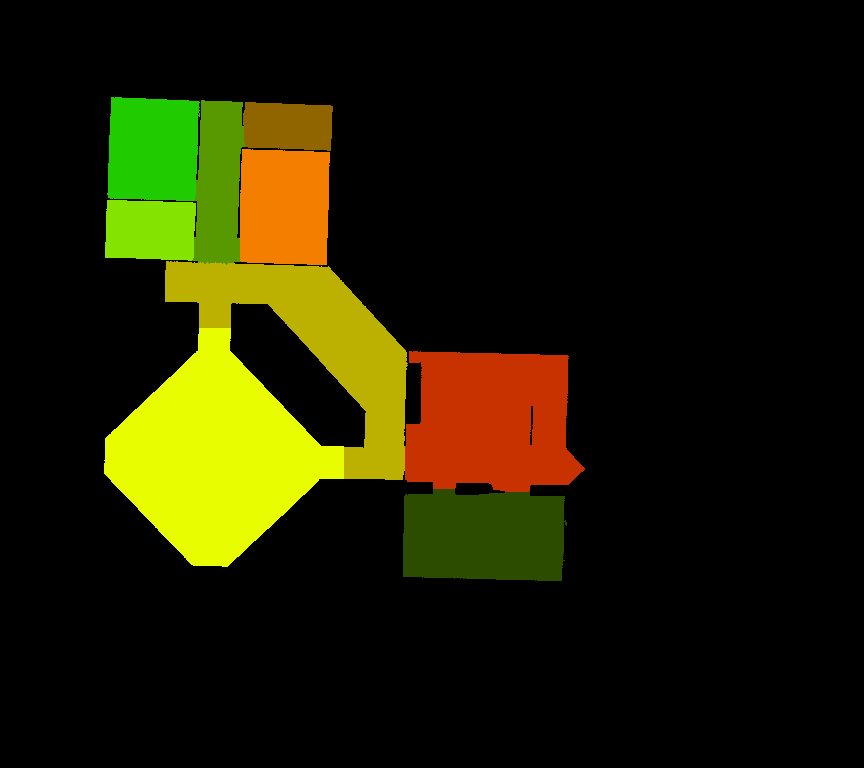
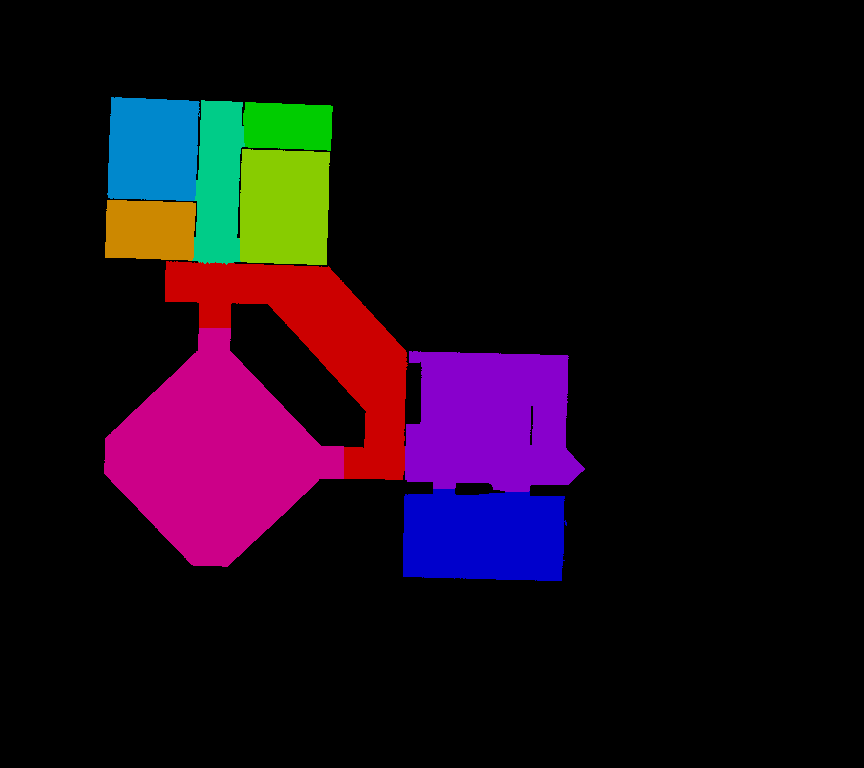
update 160308

Changed region(s): [[0.0938, 0.125, 0.6875, 0.7812]]

diff --git a/map_analyzer/src/map_publisher.py b/map_analyzer/src/map_publisher.py
@@ -65,6 +65,7 @@ import rospy
 import roslib
 import cv2
 import sys
+import colorsys
 import numpy as np
 from sensor_msgs.msg import Image
 #from sensor_msgs.msg._Image import Image
@@ -163,21 +164,129 @@ class MapPublisher(object):
                 if colorvalue not in listOfDifColors:
                     listOfDifColors.append(colorvalue)
         print listOfDifColors
-        print "colorade labes:"
-        listOfColLab = []
-        for lab in listOfDifColors:
-            labcol = []
-            labcol.append(lab)
-            if lab == 65280:
-                col = [255,255,255]
-            elif lab == 0:
-                col = [0,0,0]
-            else:
+        
+        listOfColWithoutError = []
+        for colors in listOfDifColors:
+            if colors < 65500:
+                listOfColWithoutError.append(colors)
+#         cv_enc_img[np.where(cv_img==0)] = [0,0,0]
+#         listOfDifColors.remove(0)
+#         if 65501 in listOfDifColors:
+#             cv_enc_img[np.where(cv_img==65501)] = [0,0,0]
+#             listOfDifColors.remove(65501)
+#         if 65502 in listOfDifColors:
+#             cv_enc_img[np.where(cv_img==65502)] = [0,0,0]
+#             listOfDifColors.remove(65502)
+#         if 65503 in listOfDifColors:
+#             cv_enc_img[np.where(cv_img==65503)] = [0,0,0]
+#             listOfDifColors.remove(65503)
+#         if 65280 in listOfDifColors:
+#             cv_enc_img[np.where(cv_img==65280)] = [0,0,0]
+#             listOfDifColors.remove(65280)
+        if len(listOfDifColors) == 2:
+            #cv_enc_img[np.where(cv_img==0)] = [0,0,0]
+            cv_enc_img[np.where(cv_img==255)] = [255,255,255]
+            cv_enc_img_msg = self.bridge.cv2_to_imgmsg(cv_enc_img, "bgr8")
+            return cv_enc_img_msg
+
+        elif max(listOfColWithoutError) < 1500:
+            print listOfDifColors
+            print "erkannt zahl zwischen 0 - 1500"
+            highestcol = max(listOfColWithoutError)
+            print "highestcol = %d" % highestcol
+            colordivisor = 1.0 / float(highestcol) 
+            print colordivisor
+            listOfColLab = []
+            for lab in listOfDifColors:
+                labcol = []
+                labcol.append(lab)
+                if lab == 0:
+                    col = [0,0,0]
+                elif lab == 65501:
+                    col = [0,0,0]
+                elif lab == 65502:
+                    col = [0,0,0]
+                elif lab == 65503:
+                    col = [0,0,0]
+                else:
+                    col_h = float(lab) * colordivisor
+                    col_s = 1
+                    col_v = 0.8
+                    print "lab = %f to color = %f, %f, %f" % (lab, col_h, col_s, col_v)
+                    color_in_dec = colorsys.hsv_to_rgb(col_h, col_s, col_v)
+                    print "as dec = %f , %f , %f " % (color_in_dec[0], color_in_dec[1], color_in_dec[2])
+                    col = [int(round(color_in_dec[0] * 255)),int(round(color_in_dec[1] * 255)),int(round(color_in_dec[2] * 255))]
+                    print "which is rgb"
+                    print col
+                labcol.append(col)
+                listOfColLab.append(labcol)
+        else:
+            print "erkannt zahl groesser 1500"
+            highestcol = (max(listOfColWithoutError) / 1000)
+            print "highestcol = %d" % highestcol
+            colordivisor = 1.0 / float(highestcol) 
+            print colordivisor
+
+            listOfColLab = []
+            for lab in listOfDifColors:
+                labcol = []
+                labcol.append(lab)
+                if lab == 0:
+                    col = [0,0,0]
+                elif lab == 65501:
+                    col = [0,0,0]
+                elif lab == 65502:
+                    col = [0,0,0]
+                elif lab == 65503:
+                    col = [0,0,0]
+                else:
+                    col_h = (float(lab) / 1000) * colordivisor
+                    col_v = float(lab) / 10000
+                    col_s = float(lab) / 10000
+                    print "lab = %f to color = %f, %f, %f" % (lab, col_h, col_s, col_v)
+                    color_in_dec = colorsys.hsv_to_rgb(col_h, col_s, col_v)
+                    print "as dec = %f , %f , %f " % (color_in_dec[0], color_in_dec[1], color_in_dec[2])
+                    col = [int(round(color_in_dec[0] * 255)),int(round(color_in_dec[1] * 255)),int(round(color_in_dec[2] * 255))]
+                    print "which is rgb"
+                    print col
+                labcol.append(col)
+                listOfColLab.append(labcol)
+#         listOfRooms = []
+#         for roomcol in listOfDifColors:
+#             val = (roomcol // 1000)
+#             if (val < 65):
+#                 listOfRooms.append(val)
+#         highestCol = max(listOfRooms)
+#         divis = highestCol // 360
+        
+        
+#         print "colorade labes:"
+#         listOfColLab = []
+#         for lab in listOfDifColors:
+#             labcol = []
+#             labcol.append(lab)
+#             if lab == 65280:
+#                 col = [255,255,255]
+#             elif lab == 0:
+#                 col = [0,0,0]
+#             else:
 #                 col = self.colorlist.pop()
-                col = self.listOfRoomCol.pop()
-            labcol.append(col)
-            listOfColLab.append(labcol)
-        print listOfColLab
+# #                 col = self.listOfRoomCol.pop()
+# #                 col_value = listOfDifColors.pop()
+# #                 print "das label ist"
+# #                 print col_value
+# #                 col_h = ((col_value // 1000) * divis)
+# #                 col_s = ((col_value % 1000) / 100)
+# #                 col_v = 1
+# #                 print "errechnete hsv:"
+# #                 print "%d , %d , %d " % (col_h, col_s, col_v)
+# #                 col = colorsys.hsv_to_rgb(col_h, col_s, col_v)
+# #                 print "errechnete RGB Farbe ist:"
+# #                 print col
+#                 
+#             labcol.append(col)
+#             listOfColLab.append(labcol)
+#         print listOfColLab
         
         pix_col = [255,255,255]
         for w in range (0, cv_img.shape[1], 1):
@@ -197,6 +306,10 @@ class MapPublisher(object):
         
         return cv_enc_img_msg
 
+    def createHSVcolor(self, label):
+        h_div = label // 1000
+        
+        
     def saveLogImage(self, img):
         self.counter += 1
         path_to_logimage = self.path_to_logfile+"logimg"+str(self.counter)+".png"
@@ -211,6 +324,7 @@ class MapPublisher(object):
             e = sys.exc_info()[0]
             print e
 
+        
     def produceRoomAndSquareColors(self, number_of_rooms):
         listOfRoomColors = []
         listOfRoomColorsAsInt = []

diff --git a/map_analyzer/src/map_analyzer_server.py b/map_analyzer/src/map_analyzer_server.py
@@ -126,6 +126,14 @@ class MapAnalyzerServer(object):
         
         rospy.loginfo("... finished")
     
+    def debugmakeListOfColors(self, map_img):
+        listOfColors = []
+        for w in range (0, map_img.shape[1], 1):
+            for h in range (0, map_img.shape[0], 1):
+                if not map_img[h,w] in listOfColors:
+                    listOfColors.append(map_img[h,w])
+        return listOfColors
+    
     def deleteErrorsInMap(self, img):
         for w in range (0, img.shape[1], 1):
             for h in range (0, img.shape[0], 1):
@@ -184,9 +192,14 @@ class MapAnalyzerServer(object):
 #         answer3 = self.serviceMapTesselationClient(input_map.map)
         print answer3.tesselated_rooms.encoding
         
-#         print "transposeSquaresToRooms:"
-#         squaresAndRoomsMap = self.transposeSquaresToRooms(segmented_map_response.segmented_map, answer3.tesselated_rooms)
-#         print "ready transposing"
+        print "transposeSquaresToRooms:"
+        squaresAndRoomsMap = self.transposeSquaresToRooms(segmented_map_response.segmented_map, answer3.tesselated_rooms)
+        print "ready transposing"
+        listOfcol = self.debugmakeListOfColors(squaresAndRoomsMap)
+        print "listOfTransposedColors"
+        print listOfcol
+        output_map = self.bridge.cv2_to_imgmsg(squaresAndRoomsMap)
+        answer7  = self.serviceMapPublisherClient(output_map)
         #print "listOfTransitions after room_tesselation"
         #print "map encoding after tesselation"
         #print input_map.map.encoding
@@ -202,13 +215,21 @@ class MapAnalyzerServer(object):
     def transposeSquaresToRooms(self, segmented_map, tesselated_map):
         cv_img_segmented_map = self.bridge.imgmsg_to_cv2(segmented_map, desired_encoding="passthrough").copy()
         cv_img_tesselated_map = self.bridge.imgmsg_to_cv2(tesselated_map, desired_encoding="passthrough").copy()
-        squaresAndRoomMap = np.zeros((cv_img_segmented_map.shape[0], cv_img_segmented_map.shape[1] , 1), np.uint16) # BGR
+#         squaresAndRoomMap = np.zeros((cv_img_segmented_map.shape[0], cv_img_segmented_map.shape[1] , 1), np.uint16) # BGR
+        squaresAndRoomMap = np.zeros((cv_img_segmented_map.shape[0], cv_img_segmented_map.shape[1]), np.uint16) # BGR
         for w in range (0, squaresAndRoomMap.shape[1], 1):
             for h in range (0, squaresAndRoomMap.shape[0], 1):
                 if not cv_img_segmented_map[h,w] == 0:
-                    squaresAndRoomMap[h,w] = cv_img_tesselated_map[h,w] + 1000 * cv_img_segmented_map[h,w]
+                    squaresAndRoomMap[h,w] = cv_img_tesselated_map[h,w]*12 + 1000 * cv_img_segmented_map[h,w]
                 else:
                     squaresAndRoomMap[h,w] = 0 
+                    
+#         listOfCol = self.debugmakeListOfColors(squaresAndRoomMap)
+#         listOfListsofCol = []
+#         for color in listOfCol:
+#             room = int(round (color / 1000))
+#             listOfRoomCol = []
+
         return squaresAndRoomMap
     
     def getListOfTransitions(self, map_img):

diff --git a/map_analyzer/src/map_tesselation.py b/map_analyzer/src/map_tesselation.py
@@ -185,8 +185,8 @@ class MapTesselation(object):
         #print "room preparation done"
         #print "send to publisher"
         #cv_enc_img_msg = self.bridge.cv2_to_imgmsg(newMap)
-        cv_enc_img_msg = self.bridge.cv2_to_imgmsg(newMap)
-        self.serviceMapPublisherClient(cv_enc_img_msg)
+#         cv_enc_img_msg = self.bridge.cv2_to_imgmsg(newMap)
+#         self.serviceMapPublisherClient(cv_enc_img_msg)
         #answer = self.serviceMapPublisherClient(cv_enc_img_msg)
         #print answer
         print "draw squares"
